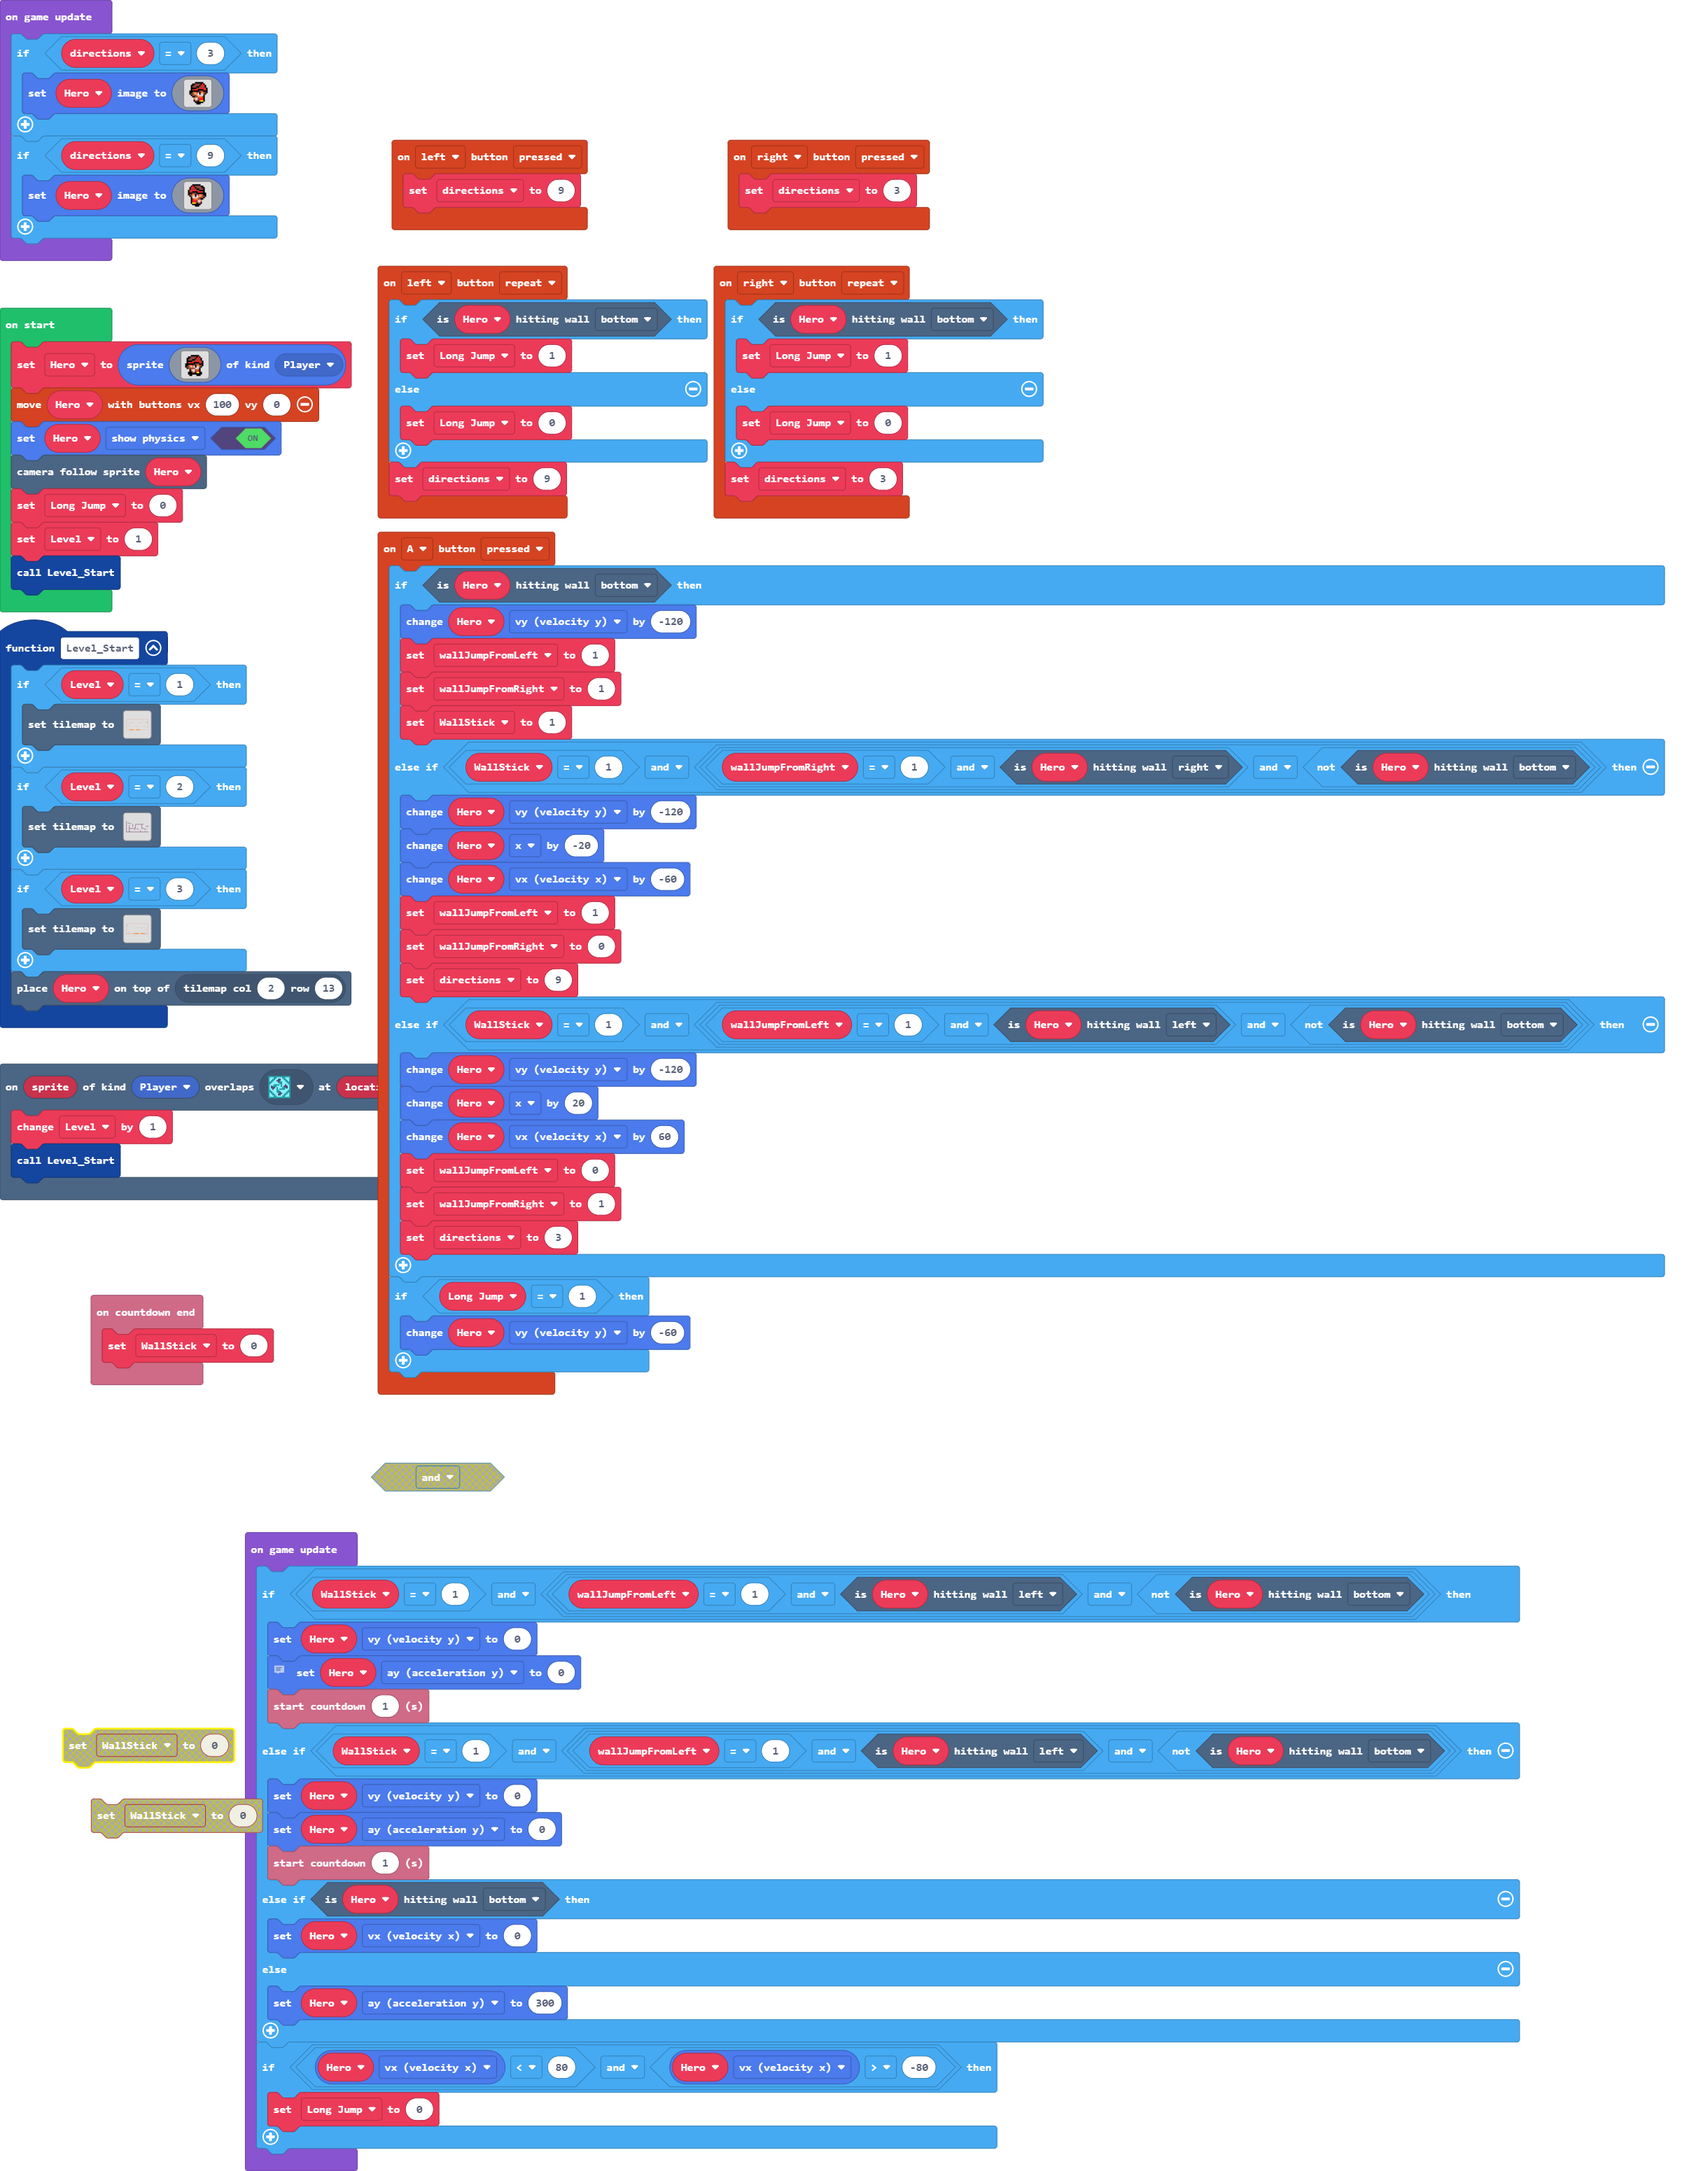
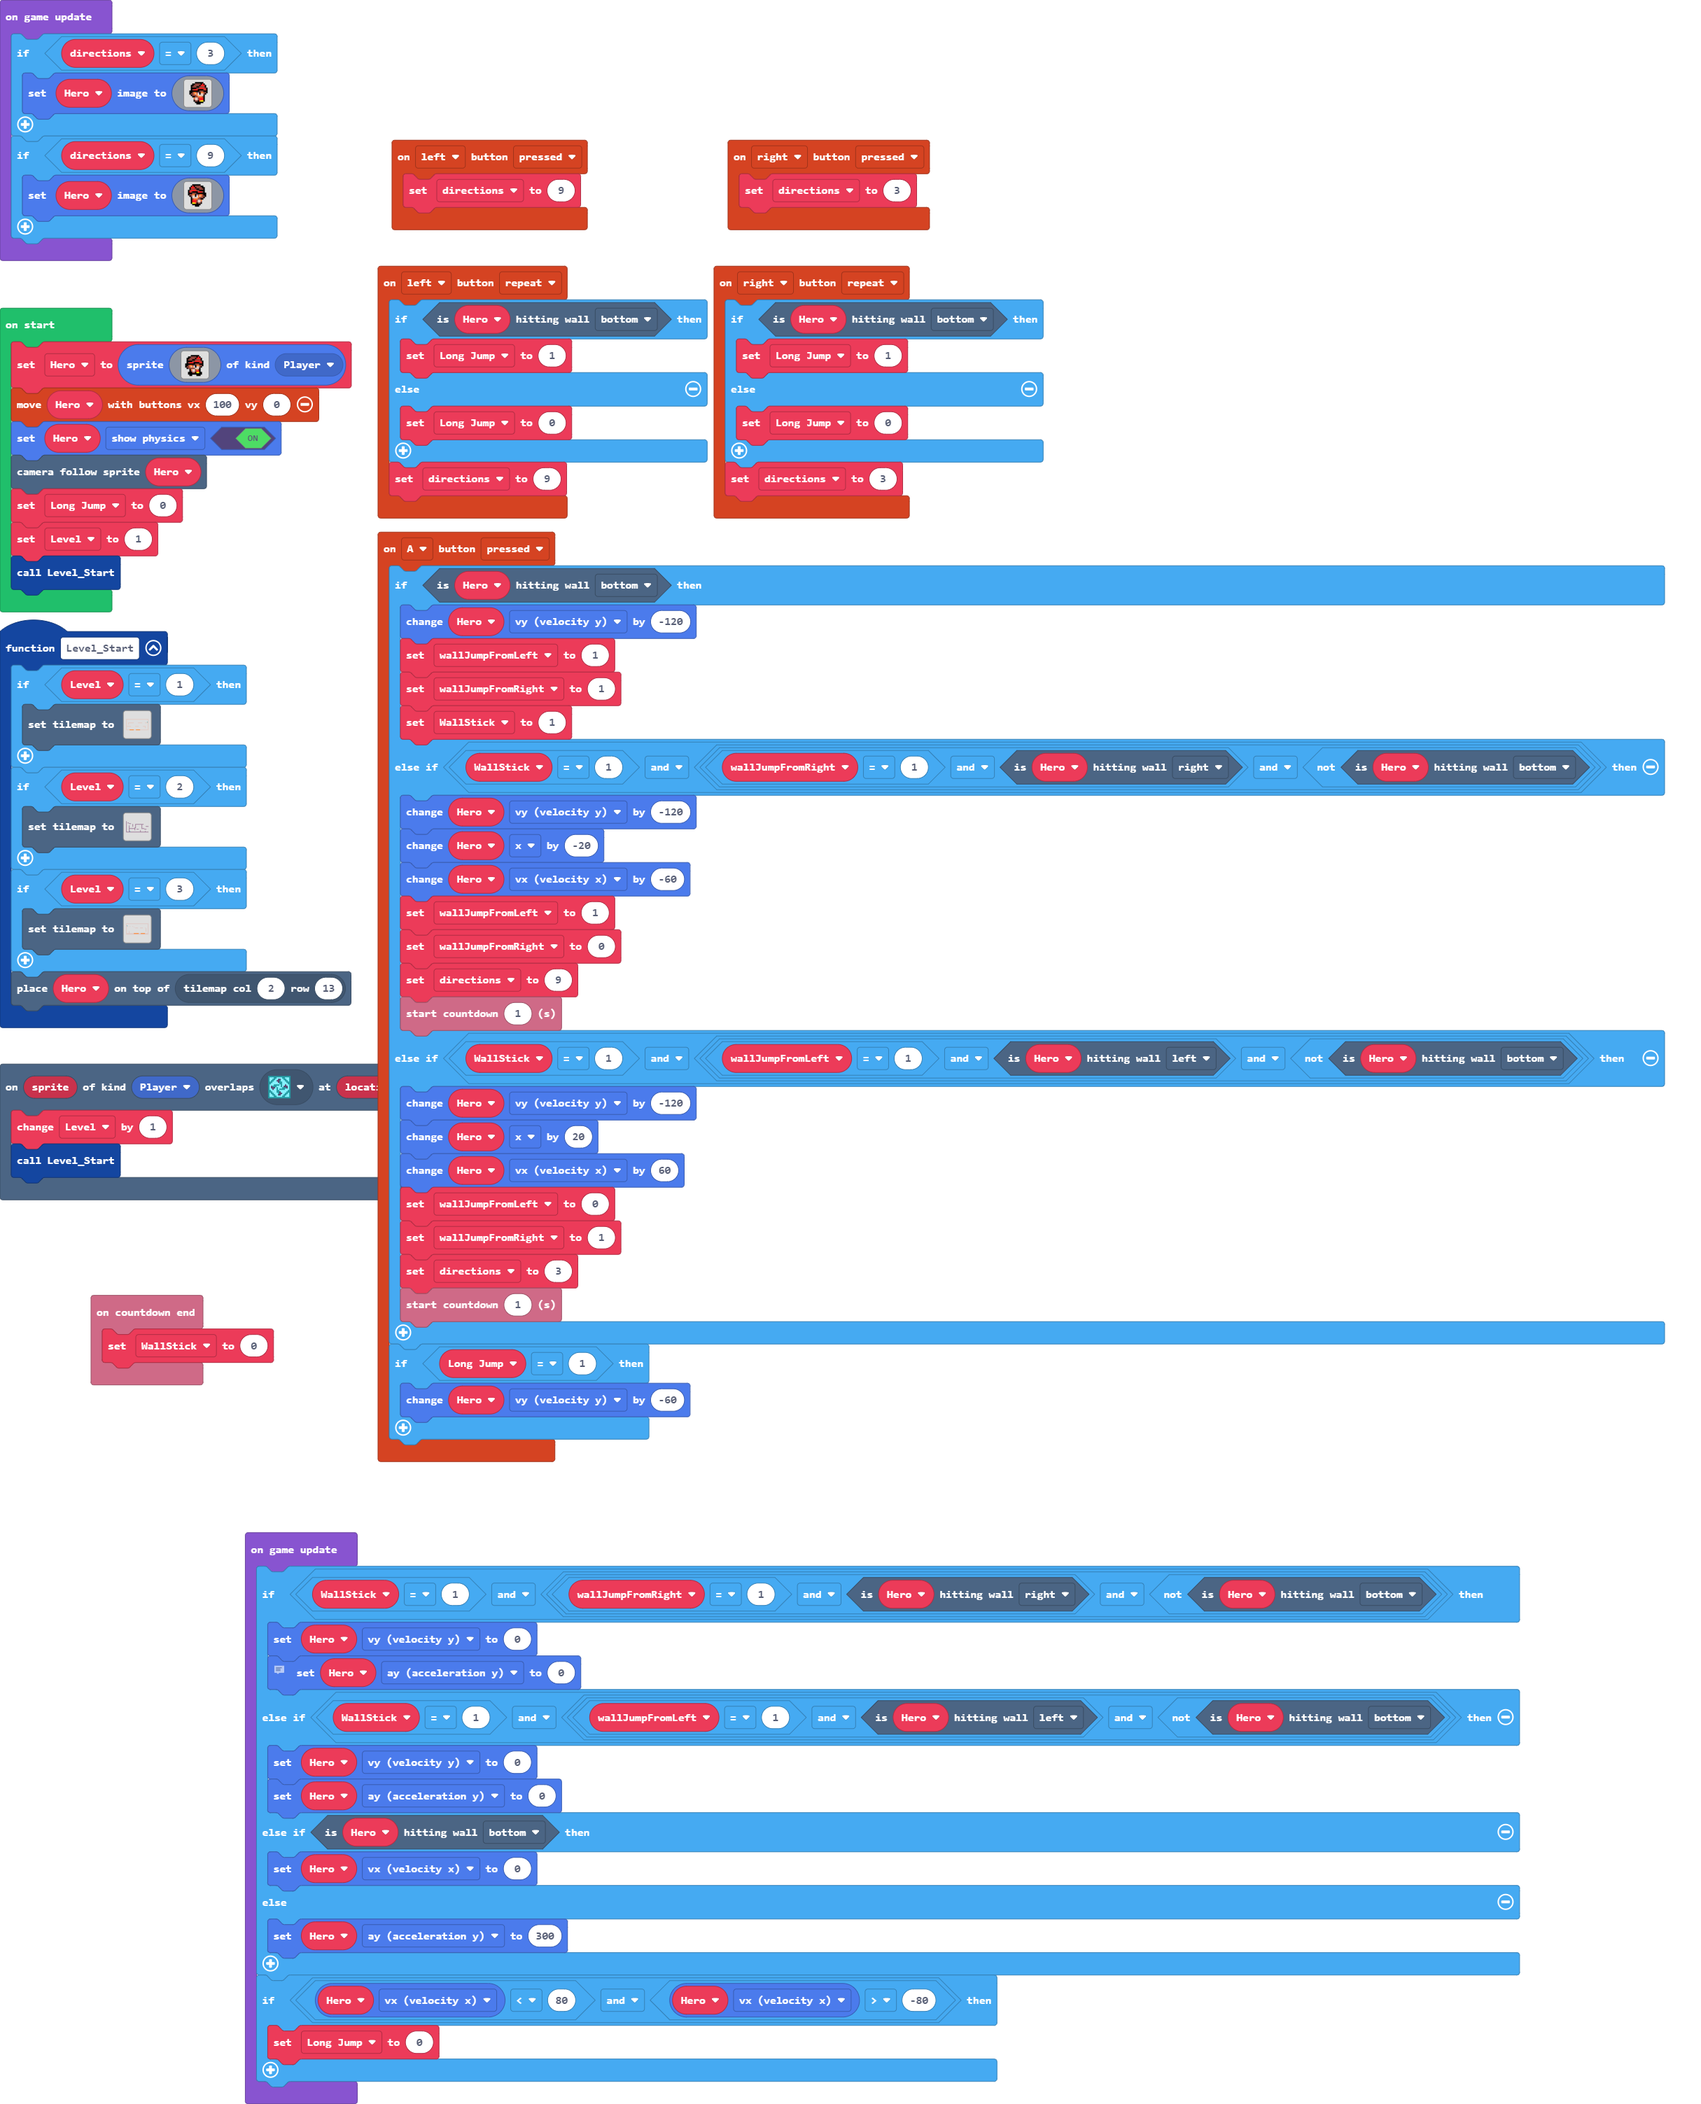
Update main.blocks, main.ts

Changed region(s): [[0.0, 0.0, 0.9877, 0.99]]

diff --git a/main.ts b/main.ts
@@ -23,6 +23,7 @@ controller.A.onEvent(ControllerButtonEvent.Pressed, function () {
         wallJumpFromLeft = 1
         wallJumpFromRight = 0
         directions = 9
+        info.startCountdown(1)
     } else if (WallStick == 1 && (wallJumpFromLeft == 1 && Hero.isHittingTile(CollisionDirection.Left) && !(Hero.isHittingTile(CollisionDirection.Bottom)))) {
         Hero.vy += -120
         Hero.x += 20
@@ -30,6 +31,7 @@ controller.A.onEvent(ControllerButtonEvent.Pressed, function () {
         wallJumpFromLeft = 0
         wallJumpFromRight = 1
         directions = 3
+        info.startCountdown(1)
     }
     if (Long_Jump == 1) {
         Hero.vy += -60
@@ -138,15 +140,13 @@ game.onUpdate(function () {
     }
 })
 game.onUpdate(function () {
-    if (WallStick == 1 && (wallJumpFromLeft == 1 && Hero.isHittingTile(CollisionDirection.Left) && !(Hero.isHittingTile(CollisionDirection.Bottom)))) {
+    if (WallStick == 1 && (wallJumpFromRight == 1 && Hero.isHittingTile(CollisionDirection.Right) && !(Hero.isHittingTile(CollisionDirection.Bottom)))) {
         Hero.vy = 0
         // 20 if you wanna more realisticd d
         Hero.ay = 0
-        info.startCountdown(1)
     } else if (WallStick == 1 && (wallJumpFromLeft == 1 && Hero.isHittingTile(CollisionDirection.Left) && !(Hero.isHittingTile(CollisionDirection.Bottom)))) {
         Hero.vy = 0
         Hero.ay = 0
-        info.startCountdown(1)
     } else if (Hero.isHittingTile(CollisionDirection.Bottom)) {
         Hero.vx = 0
     } else {
